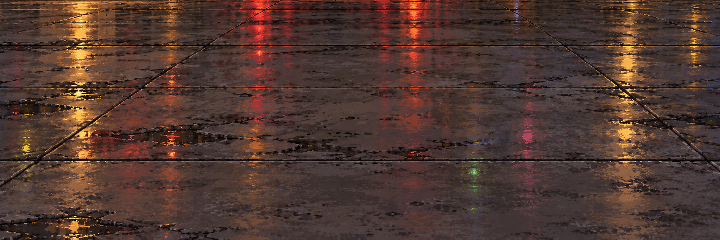
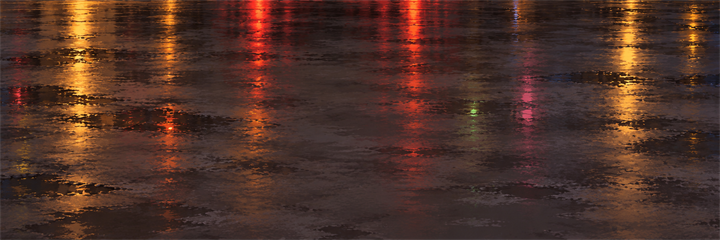
fix stage 1 background

diff --git a/EQRungBeatEmUp/Assets/EQ_Rung_BeatEmUp/Scripts/Combat/ComboController.Defense.cs b/EQRungBeatEmUp/Assets/EQ_Rung_BeatEmUp/Scripts/Combat/ComboController.Defense.cs
@@ -23,49 +23,87 @@ namespace BeatEmUp
 
         public bool RequestDodge()
         {
-            if (!CanStartDefense || IsDefenseState) return false;
+            if (!CanStartDefense || IsDefenseState) 
+            { 
+                return false; 
+            }
+
             dodgeDirection = motor.MoveInput.sqrMagnitude > .01f ? motor.MoveInput.normalized : new Vector2(-motor.Facing, 0);
-            guardHeld = false; BeginDefense(CombatState.Dodge); motor.StopGroundedMotion(); Build?.DodgeStarted();
-            ShowDefense(); return true;
+            guardHeld = false; 
+            BeginDefense(CombatState.Dodge); 
+            motor.StopGroundedMotion(); 
+            Build?.DodgeStarted();
+            ShowDefense(); 
+
+            return true;
         }
         public void RequestGuard(bool held)
         {
             if (!held)
             {
                 guardHeld = false; parryArmed = false;
-                if ((State == CombatState.GuardEnter || State == CombatState.GuardHold) && blockstun <= 0) EndDefense();
+
+                if ((State == CombatState.GuardEnter || State == CombatState.GuardHold) && blockstun <= 0) 
+                { 
+                    EndDefense(); 
+                }
+
                 return;
             }
-            if (guardHeld || !CanStartDefense || (IsDefenseState && State != CombatState.GuardEnter && State != CombatState.GuardHold)) return;
+
+            if (guardHeld || !CanStartDefense || (IsDefenseState && State != CombatState.GuardEnter && State != CombatState.GuardHold)) 
+            { 
+                return; 
+            }
+            
             guardHeld = true;
-            if (blockstun > 0) return;
+
+            if (blockstun > 0) 
+            { 
+                return; 
+            }
+
             BeginGuard(true);
         }
         private void BeginGuard(bool freshPress)
         {
             BeginDefense(freshPress ? CombatState.GuardEnter : CombatState.GuardHold);
             parryArmed = freshPress;
-            if (!freshPress) DefenseFrame = EffectiveParryWindow;
+
+            if (!freshPress) 
+            { 
+                DefenseFrame = EffectiveParryWindow; 
+            }
+
             motor.StopGroundedMotion(); ShowDefense();
         }
         private void BeginDefense(CombatState state)
         {
-            ResetCombo(); ClearDefenseControl(); stun = cooldown = blockstun = 0;
-            State = state; DefenseFrame = 0;
+            ResetCombo(); 
+            ClearDefenseControl(); 
+            stun = cooldown = blockstun = 0;
+            State = state; 
+            DefenseFrame = 0;
             defenseStartedTick = CombatClock.IsStepping ? CombatClock.CurrentTick : -1;
             motor.MovementLocked = true;
         }
+
         private void ClearDefenseControl()
         {
             if (motor) motor.DefenseVelocity = Vector2.zero;
             if (animationDriver) animationDriver.ReleaseReactionControl();
         }
+
         private void EndDefense()
         {
-            ClearDefenseControl(); State = motor.IsGrounded ? CombatState.Idle : CombatState.Jumping;
-            motor.MovementLocked = false; DefenseFrame = blockstun = 0; parryArmed = false;
+            ClearDefenseControl(); 
+            State = motor.IsGrounded ? CombatState.Idle : CombatState.Jumping;
+            motor.MovementLocked = false; 
+            DefenseFrame = blockstun = 0; 
+            parryArmed = false;
             animationDriver.Play(motor.IsGrounded ? "Idle" : "Jumping", true);
         }
+
         public void PrepareDefenseFrame()
         {
             if (!IsDefenseState || !defenseData || attackPlayer.IsFrozen || defenseStartedTick == CombatClock.CurrentTick) return;
@@ -185,7 +223,12 @@ namespace BeatEmUp
                 default: poses = defenseData.knockdown; break;
             }
             int frame = State == CombatState.Downed ? int.MaxValue : DefenseFrame;
-            if ((State == CombatState.KnockDown || State == CombatState.Die) && !motor.IsGrounded) frame = 5;
+            
+            if ((State == CombatState.KnockDown || State == CombatState.Die) && !motor.IsGrounded) 
+            { 
+                frame = 5;
+            }
+
             var pose = blockstun > 0 && State == CombatState.GuardHold ? defenseData.blockPose : PlayerDefenseData.Pose(poses, frame);
             animationDriver.HoldSprite(motor.sprite, pose);
         }

diff --git a/EQRungBeatEmUp/Assets/EQ_Rung_BeatEmUp/Scripts/Combat/ComboController.cs b/EQRungBeatEmUp/Assets/EQ_Rung_BeatEmUp/Scripts/Combat/ComboController.cs
@@ -44,7 +44,8 @@ namespace BeatEmUp
 
         private void OnEnable()
         {
-            if (motor) { 
+            if (motor) 
+            { 
                 motor.Landed += OnLanding; 
             }
 
@@ -73,9 +74,17 @@ namespace BeatEmUp
                 motor.Landed -= OnLanding; 
                 motor.MovementLocked = false; 
             }
+
+            if (attackPlayer) 
+            { 
+                attackPlayer.Finished -= Finish; 
+            }
             
-            if (attackPlayer) attackPlayer.Finished -= Finish;
-            if (health) { health.Died -= EnterDie; health.Restored -= RestorePlayer; }
+            if (health) 
+            { 
+                health.Died -= EnterDie; 
+                health.Restored -= RestorePlayer; 
+            }
             ClearDefenseControl();
             ResetCombo();
         }
@@ -127,11 +136,20 @@ namespace BeatEmUp
         }
         public void ResetCombo()
         {
-            if (attackPlayer) attackPlayer.Stop();
+            if (attackPlayer) 
+            { 
+                attackPlayer.Stop(); 
+            }
+            
             ComboIndex = 0; nextIndex = 0; idleFrames = 0;
             buffered = CombatInput.None; bufferFrames = 0; jumpBuffer = 0;
             bufferedAirDive = false;
-            if (motor) { motor.AirAttackControl = false; motor.MovementLocked = stun > 0; }
+            
+            if (motor) 
+            { 
+                motor.AirAttackControl = false; 
+                motor.MovementLocked = stun > 0; 
+            }
         }
         private void OnLanding()
         {
@@ -163,7 +181,8 @@ namespace BeatEmUp
                 return; 
             }
 
-            ResetCombo(); State = stun > 0 ? CombatState.Hitstun : CombatState.Idle;
+            ResetCombo(); 
+            State = stun > 0 ? CombatState.Hitstun : CombatState.Idle;
         }
         public void CombatFrame()
         {
